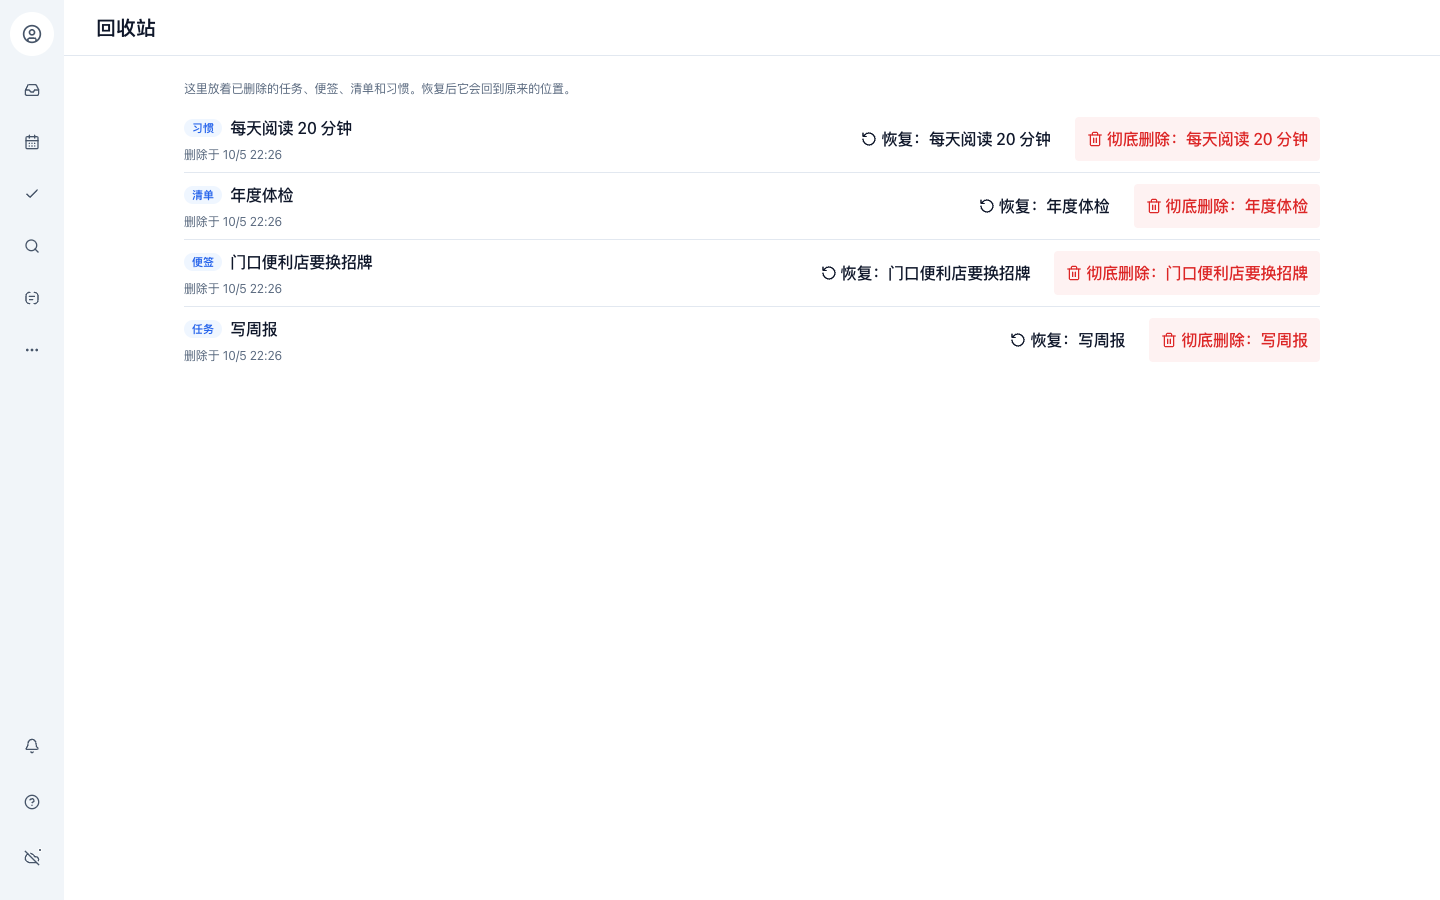
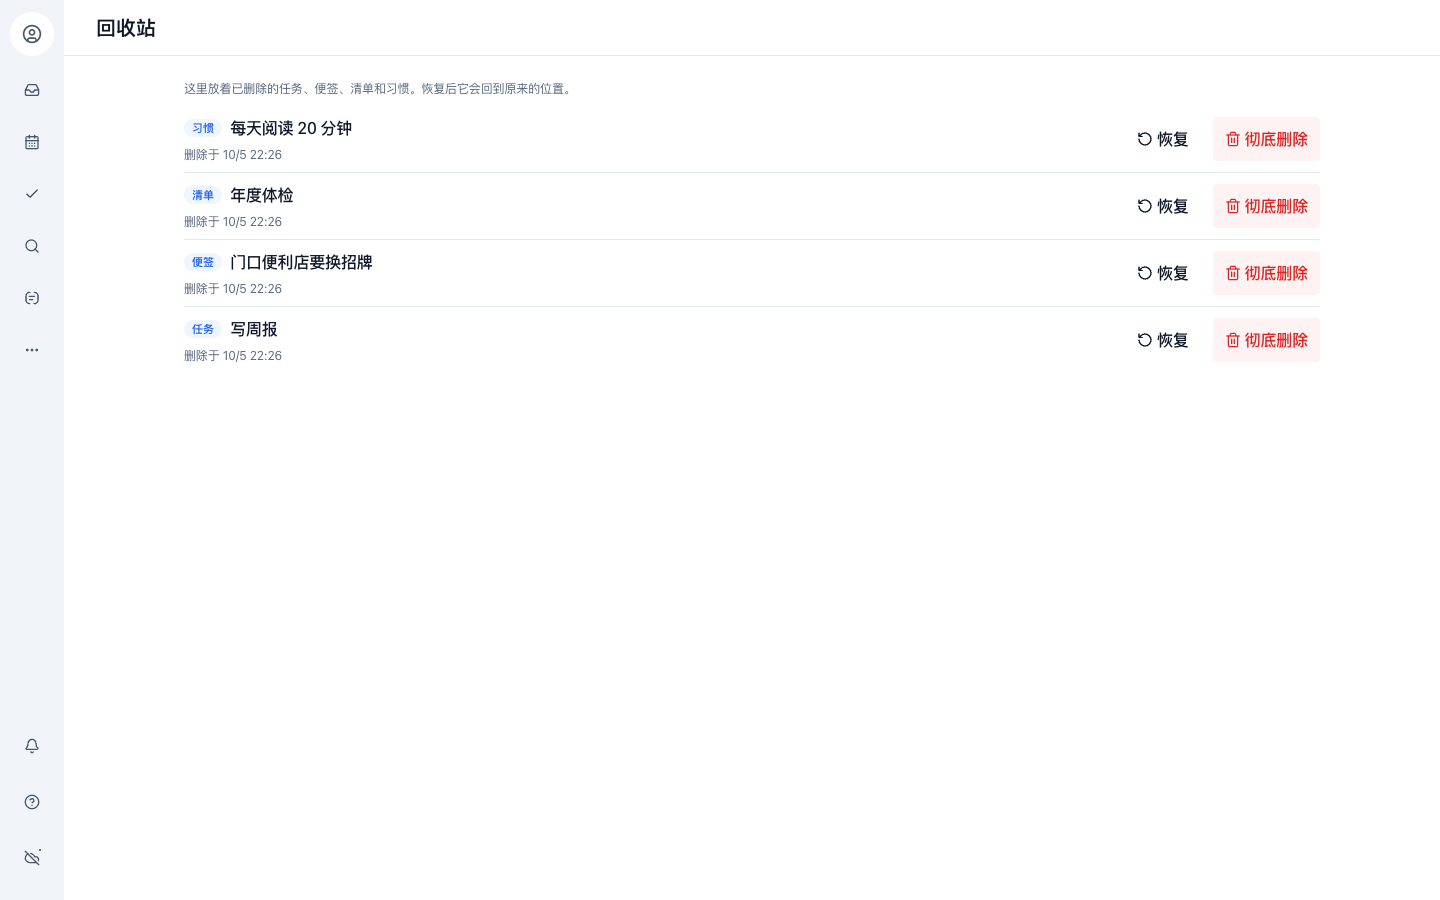
fix(ui): 回收站行内动作不再挤压；「我的」账号卡补可点的箭头
## 回收站：两个问题叠在一起

**问题一：可见文字用了读屏名。** Web 端把 `restore(item)`（"恢复：每天阅读 20 分钟"）
直接当按钮文字用，于是**同一行的标题出现三遍** —— 主列表题、恢复、彻底删除各一遍。
动作列被撑到半行宽，反而把标题挤断（实拍只剩"读 20 分钟"）。
移动端一直是分档的（`mobile.trash.restore` vs `restoreA11y`），Web 没跟上。

修法：`TrashBoardLabels` 增加 `restoreLabel` / `purgeLabel` 两个**可见短标签**，
`restore` / `purge` 保留为带标题的读屏名。两端都接上。

**问题二：动作列参与压缩。** `actions` 没有 `flex-shrink: 0`，
而 `main` 是 `flex: 1`（吃满）⇒ 动作列被压到比自身文字还窄，
"彻底删除"读出来是「都删除」（前两字被裁）。
让位应该是主列的事（它已有 `minWidth: 0`，标题本来就该折行）。
`flexWrap: 'wrap'` 保留：真的放不下时换行，而不是继续压字。

实拍（1440×900）：徽标 + 完整标题 + 删除时间在左，`恢复` / `彻底删除` 整齐贴右缘。

## 「我的」账号卡：不是缺 CTA，是缺"可点"的样子

设计上它**整块可点**（`Pressable` + `accessibilityRole="button"`，未登录直接进登录），
此前刻意去掉了那枚整行蓝色按钮（"去登录"出现两处、两种形态）。
但改完之后它长得和一张静态信息卡一模一样 —— 没有按钮外观、没有箭头。

补一枚 `action.disclose`（›）。这枚图标早已注册、**一直没有消费者**
（`icons.tsx` 里自己登记了这条欠账），这里就是它的第一个正当场景。

## 判据

- `@heyta/ui` 987 tests 全绿；`apps/mobile` `tsc --noEmit` 干净
- `apps/web` 仅剩既有 `TaskRowMenu.tsx(321,6)`（与本改动无关）
- `check:i18n-vars` 全绿；实拍 1440×900 确认动作列不截断

diff --git a/packages/ui/src/trash/TrashBoard.tsx b/packages/ui/src/trash/TrashBoard.tsx
@@ -80,8 +80,22 @@ export interface TrashBoardLabels {
    * 已经收进 `trash/model.ts`，这里要的永远是**已经算完的那一个数**。
    */
   readonly deletedAt: (item: TrashItem) => string;
+  /**
+   * 读屏名，**必须带标题**（"恢复：每天阅读 20 分钟"）—— 一屏十几行如果只读
+   * "恢复/彻底删除"，用户不知道按的是哪一条。
+   */
   readonly restore: (item: TrashItem) => string;
   readonly purge: (item: TrashItem) => string;
+  /**
+   * 按钮上的**可见文字**（2026-11-16）。
+   *
+   * 🔴 与上面两档分开：可见文字不重复标题。之前 Web 端拿 `restore(item)` 直接当
+   * 按钮文字用，于是**同一行的标题出现三遍**（主列表题 / "恢复：标题" / "彻底删除：标题"），
+   * 动作列被撑到半行宽，反而把标题本身挤断（实拍：只能说"读 20 分钟"）。
+   * 移动端一直是分档的（`mobile.trash.restore` vs `restoreA11y`），这里是把它收进契约。
+   */
+  readonly restoreLabel: string;
+  readonly purgeLabel: string;
 }
 
 export interface TrashBoardProps {
@@ -210,7 +224,7 @@ export function TrashBoard({
                     color={tokens['color.foreground']}
                   />
                   <Text style={[text['row-title'], { color: tokens['color.foreground'] }]}>
-                    {labels.restore(item)}
+                    {labels.restoreLabel}
                   </Text>
                 </Pressable>
 
@@ -236,7 +250,7 @@ export function TrashBoard({
                 >
                   <HeytaIcon data={Trash2} size={tokens['icon.sm']} color={tokens['color.danger']} />
                   <Text style={[text['row-title'], { color: tokens['color.danger'] }]}>
-                    {labels.purge(item)}
+                    {labels.purgeLabel}
                   </Text>
                 </Pressable>
               </View>
@@ -271,7 +285,16 @@ function makeStyles(tokens: HeytaNativeTokens) {
       color: tokens['color.primary'],
     },
     divider: { height: tokens['border-width.thin'] },
-    actions: { flexDirection: 'row', flexWrap: 'wrap' },
+    /**
+     * 🔴 `flexShrink: 0` —— 动作列**不参与压缩**（2026-11-16）。
+     *
+     * 没有它的时候：`main` 是 `flex: 1`（吃满），动作列是可压缩的，
+     * 于是"彻底删除"那枚在桌面宽度下被压到比自身文字还窄 ——
+     * 实拍里读出来是「都删除」（前两个字被裁掉），而这是一个**不可逆动作**的标签。
+     * 让位应该是 `main` 的事（它已有 `minWidth: 0`，标题本来就该折行）。
+     * `flexWrap: 'wrap'` 保留：真的放不下时换行，而不是继续压字。
+     */
+    actions: { flexDirection: 'row', flexWrap: 'wrap', flexShrink: 0 },
     action: { flexDirection: 'row', alignItems: 'center', justifyContent: 'center' },
   });
 }

diff --git a/apps/mobile/src/screens/ProfileScreen.tsx b/apps/mobile/src/screens/ProfileScreen.tsx
@@ -1619,13 +1619,23 @@ export function ProfileScreen(): React.JSX.Element {
             <Text variant="row-title" style={{ textAlign: 'center' }}>
               {savedName ?? signedInEmail ?? t('mobile.profile.account.offline')}
             </Text>
-            <Text variant="caption" tone="subtle" style={{ textAlign: 'center' }}>
-              {savedName && signedInEmail
-                ? signedInEmail
-                : accountHasCredential
-                  ? t('mobile.profile.account.headerSignedIn')
-                  : t('mobile.profile.account.signInHint')}
-            </Text>
+            <HStack gap="tight" align="center">
+              <Text variant="caption" tone="subtle" style={{ textAlign: 'center' }}>
+                {savedName && signedInEmail
+                  ? signedInEmail
+                  : accountHasCredential
+                    ? t('mobile.profile.account.headerSignedIn')
+                    : t('mobile.profile.account.signInHint')}
+              </Text>
+              {/*
+                🔴 2026-11-16：这一块**整块可点**（去登录 / 进账号设置），
+                但此前长得和一张静态信息卡一模一样 —— 没有按钮外观、没有箭头，
+                用户没理由去点它。Apple 的"整行可点"从来都配一个 › 来说这件事。
+                `action.disclose` 这枚图标早就注册好了，一直没有消费者（见 icons.tsx
+                那条"登记为欠账"的注释）—— 这里就是它的第一个正当场景。
+              */}
+              <Icon name="action.disclose" size="sm" color={tokens['color.foreground-subtle']} />
+            </HStack>
           </View>
         </Card>
       </Pressable>

diff --git a/packages/i18n/src/locales/zh-CN.ts b/packages/i18n/src/locales/zh-CN.ts
@@ -931,6 +931,14 @@ export const zhCN = {
   'web.trash.deletedAt': '删除于 {date}',
   'web.trash.restore': '恢复：{title}',
   'web.trash.purge': '彻底删除：{title}',
+  /*
+    🔴 2026-11-16：与上面两条**分开**。上面是读屏名（必须带标题），
+    下面是按钮上真正显示的字。混用会让同一行的标题出现三遍，
+    动作列被撑到半行宽，反而把标题挤断（实拍：只剩"读 20 分钟"）。
+    移动端一直是分档的（`mobile.trash.restore` / `restoreA11y`）。
+  */
+  'web.trash.restoreLabel': '恢复',
+  'web.trash.purgeLabel': '彻底删除',
   'web.trash.confirm.title': '彻底删除「{title}」？',
   'web.trash.confirm.body': '彻底删除后它不会再出现在回收站里，也无法恢复。',
   // 🔴 与移动端 mobile.trash.confirm.notErasure 同一句话：彻底删除只是不再提供恢复，没有把历史抹掉。

diff --git a/packages/i18n/src/locales/en.ts b/packages/i18n/src/locales/en.ts
@@ -825,6 +825,8 @@ export const en = {
   'web.trash.deletedAt': 'Deleted {date}',
   'web.trash.restore': 'Restore: {title}',
   'web.trash.purge': 'Delete permanently: {title}',
+  'web.trash.restoreLabel': 'Restore',
+  'web.trash.purgeLabel': 'Delete permanently',
   'web.trash.confirm.title': 'Delete “{title}” permanently?',
   'web.trash.confirm.body': 'Once deleted permanently it leaves the trash and cannot be restored.',
   // Same sentence as mobile.trash.confirm.notErasure: purging stops offering a restore, it does not erase history.

diff --git a/apps/web/src/features/trash/TrashView.tsx b/apps/web/src/features/trash/TrashView.tsx
@@ -245,6 +245,8 @@ export function TrashView(): React.JSX.Element {
             deletedAt: (item) => t('web.trash.deletedAt', { date: formatDeletedAt(item.deletedAt, locale) }),
             restore: (item) => t('web.trash.restore', { title: item.title }),
             purge: (item) => t('web.trash.purge', { title: item.title }),
+            restoreLabel: t('web.trash.restoreLabel'),
+            purgeLabel: t('web.trash.purgeLabel'),
           }}
           onRestore={(id) => {
             const kind = kindOf(id);

diff --git a/apps/mobile/src/screens/TrashScreen.tsx b/apps/mobile/src/screens/TrashScreen.tsx
@@ -253,6 +253,8 @@ export function TrashScreen({ onBack }: { onBack: () => void }): React.JSX.Eleme
     deletedAt: (item: TrashItem) => deletedAtText(item, t),
     restore: (item: TrashItem) => restoreA11y(item, t),
     purge: (item: TrashItem) => purgeA11y(item, t),
+    restoreLabel: t('mobile.trash.restore'),
+    purgeLabel: t('mobile.trash.purge'),
   };
 
   return (
